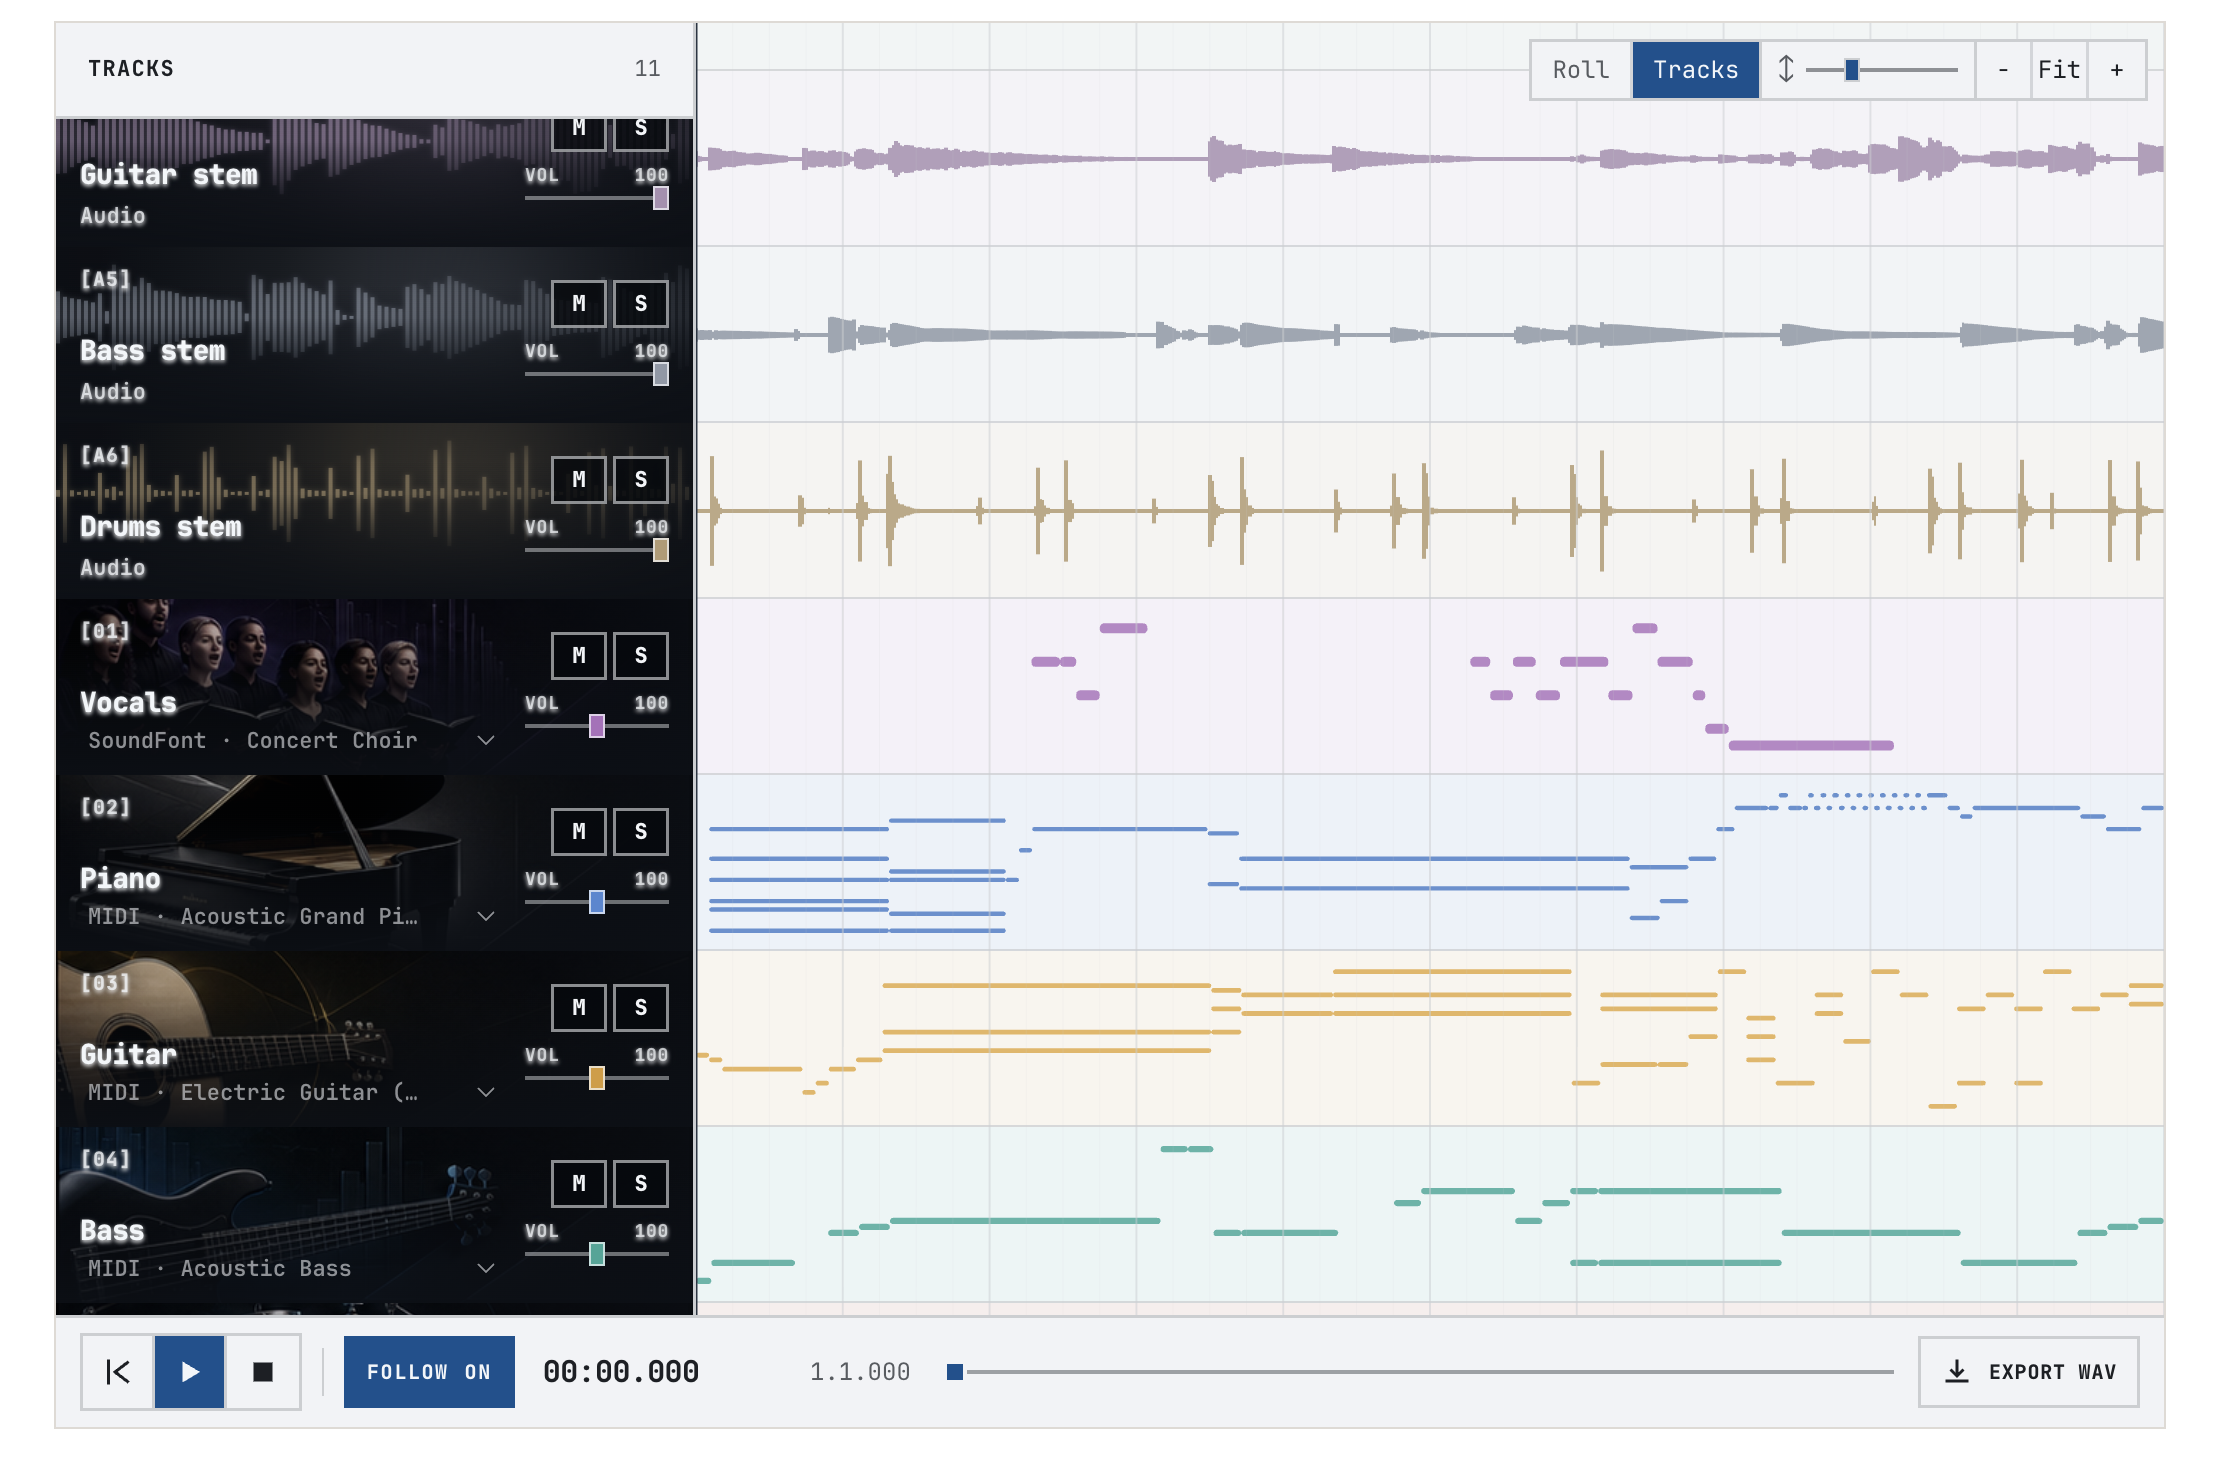
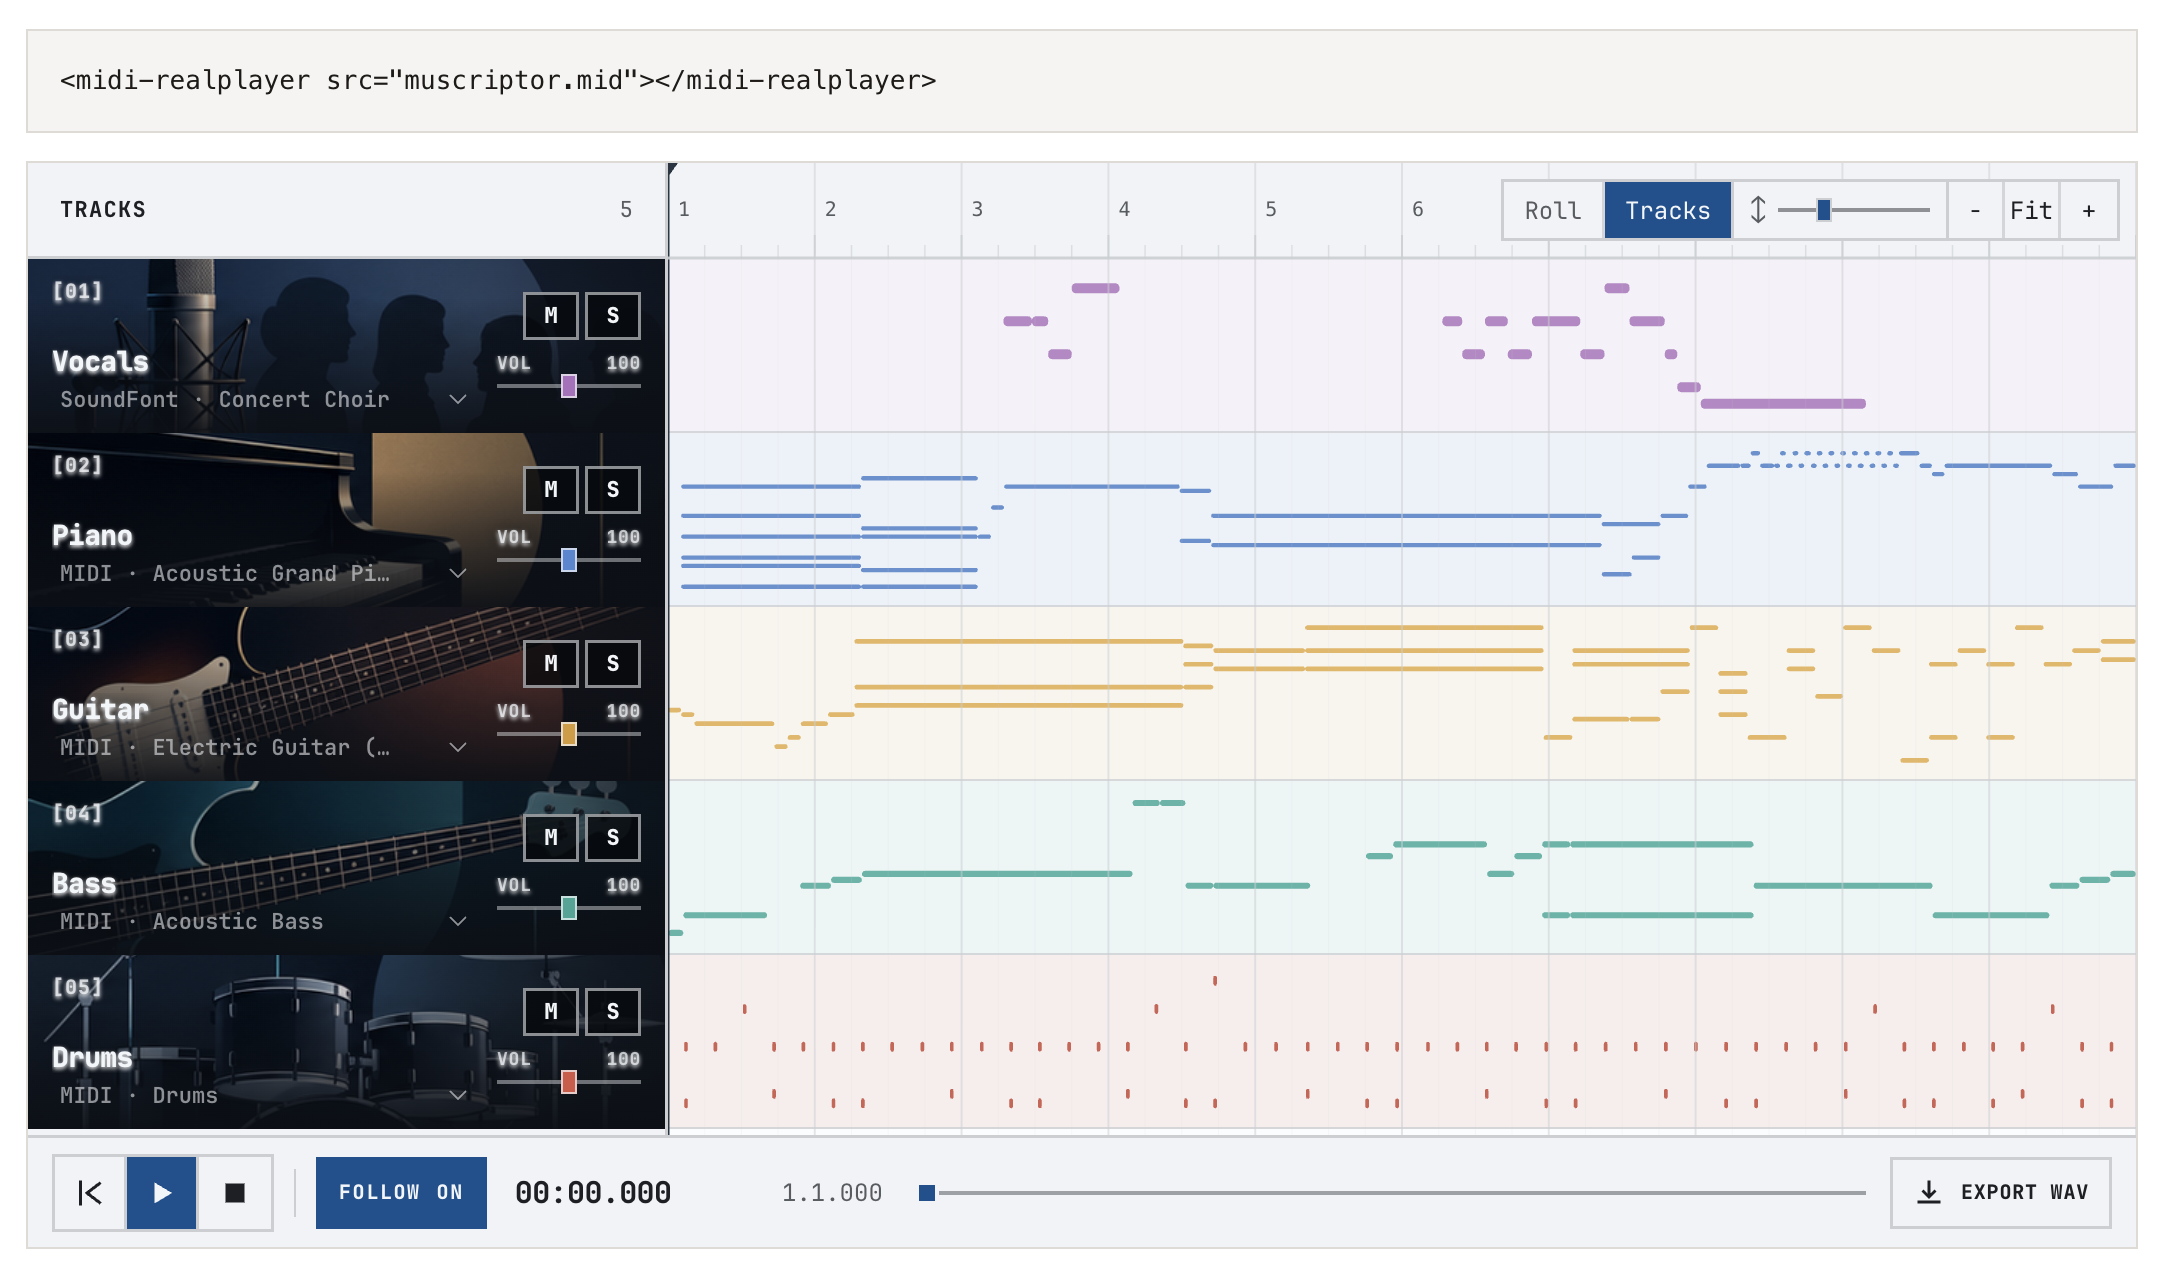
Update README screenshot with modern five-track player view

diff --git a/README.md b/README.md
@@ -11,7 +11,7 @@ recordings, right in the browser.
 
 **[Try the live demo](https://vaclisinc.github.io/midi-realplayer-web/)**
 
-![Track view showing audio waveforms alongside MIDI notes, with mute, solo and volume controls](docs/screenshot.png)
+![Five-track MIDI player with modern instrument artwork, notes, and mute, solo and volume controls](docs/screenshot.png)
 
 Add these two lines to your page:
 
